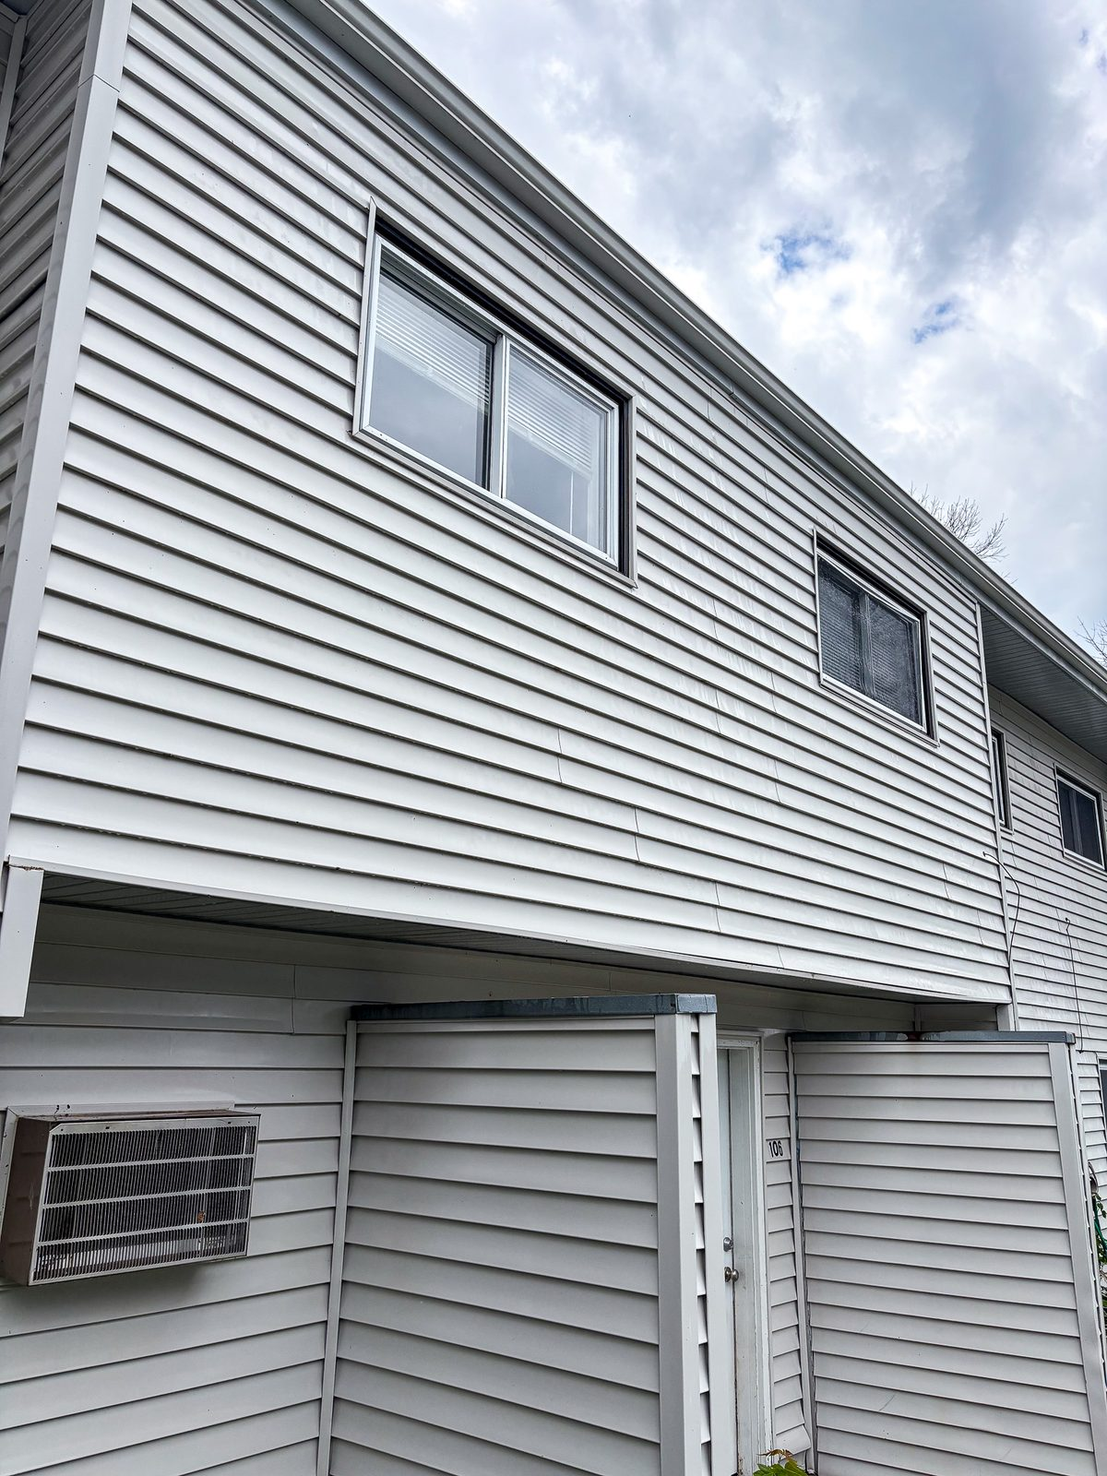
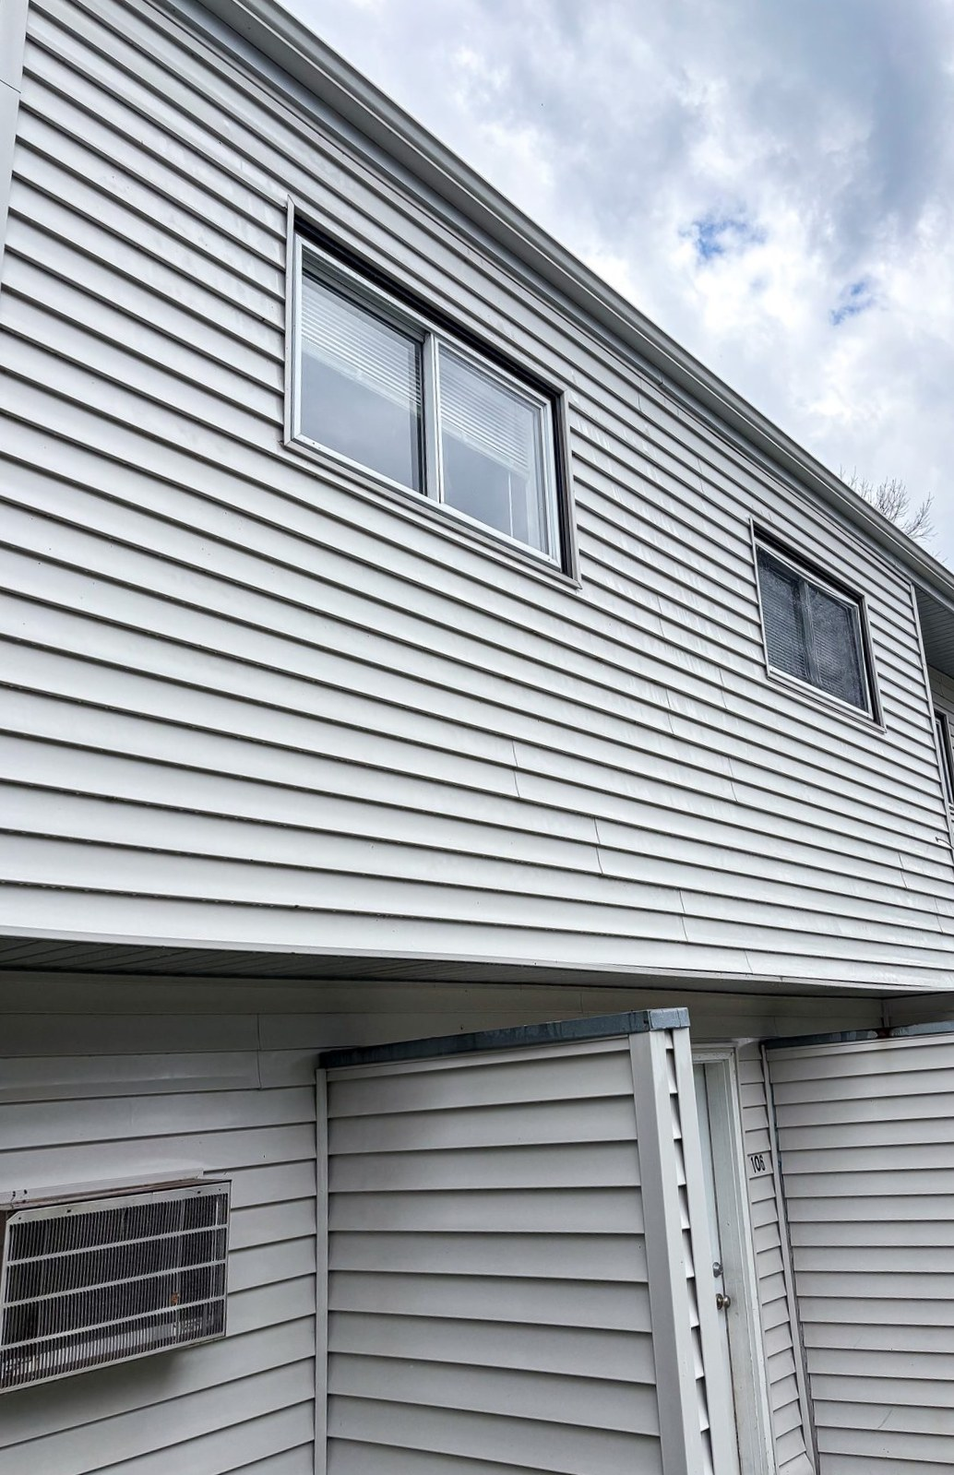
Add window before/after photos, align siding pair, fix reviews spacing
- Wire your new window before/after photos into the ba1 slider slot
  (dirty/speckled glass = before, clean = after).
- Auto-align the siding before/after pair using feature-matching +
  homography so the two shots line up almost pixel-perfect (windows,
  gutter lines, siding courses all match), making the drag transition
  much smoother. The window pair didn't have enough stable features
  for reliable auto-alignment (glass reflections vs. siding texture),
  so that one uses a simple matched center-crop instead.
- Fix reviews.html: content was starting right under the fixed nav
  header since the hero band was removed; add top padding so the
  widget clears the header properly.

diff --git a/gallery.html b/gallery.html
@@ -106,8 +106,8 @@
   <section><div class="container">
     <div class="section-head center"><span class="eyebrow">Drag to reveal</span><h2>Before &amp; after</h2></div>
     <div class="grid cols-3"><div class="reveal" data-delay="0"><div class="ba" role="group" aria-label="Before and after comparison slider">
-  <img class="ba-img ba-before" src="assets/img/ba1-before.svg" alt="Before professional cleaning — visible dirt, algae, and water spots" loading="lazy" width="800" height="500">
-  <img class="ba-img ba-after" src="assets/img/ba1-after.svg" alt="After Barta professional cleaning — bright, spotless, like-new surface" loading="lazy" width="800" height="500">
+  <img class="ba-img ba-before" src="assets/img/ba-window-before.jpg" alt="Before professional cleaning — visible dirt, algae, and water spots" loading="lazy" width="800" height="500">
+  <img class="ba-img ba-after" src="assets/img/ba-window-after.jpg" alt="After Barta professional cleaning — bright, spotless, like-new surface" loading="lazy" width="800" height="500">
   <span class="ba-label before">Before</span>
   <span class="ba-label after">After</span>
   <span class="ba-handle"></span>
@@ -138,8 +138,8 @@
   <span class="ba-knob"><svg viewBox="0 0 24 24" fill="none" stroke="currentColor" stroke-width="1.9" stroke-linecap="round" stroke-linejoin="round" aria-hidden="true"><path d="M12 3v18M8 7 4 11l4 4M16 7l4 4-4 4"/></svg></span>
   <input class="ba-range" type="range" min="0" max="100" value="50" aria-label="Reveal more of the before or after image">
 </div></div><div class="reveal" data-delay="1"><div class="ba" role="group" aria-label="Before and after comparison slider">
-  <img class="ba-img ba-before" src="assets/img/ba1-before.svg" alt="Before professional cleaning — visible dirt, algae, and water spots" loading="lazy" width="800" height="500">
-  <img class="ba-img ba-after" src="assets/img/ba1-after.svg" alt="After Barta professional cleaning — bright, spotless, like-new surface" loading="lazy" width="800" height="500">
+  <img class="ba-img ba-before" src="assets/img/ba-window-before.jpg" alt="Before professional cleaning — visible dirt, algae, and water spots" loading="lazy" width="800" height="500">
+  <img class="ba-img ba-after" src="assets/img/ba-window-after.jpg" alt="After Barta professional cleaning — bright, spotless, like-new surface" loading="lazy" width="800" height="500">
   <span class="ba-label before">Before</span>
   <span class="ba-label after">After</span>
   <span class="ba-handle"></span>

diff --git a/landing/free-window-cleaning-quote.html b/landing/free-window-cleaning-quote.html
@@ -155,8 +155,8 @@
       <div class="mt-3" style="display:grid;gap:22px"><div class="feature reveal" data-delay="0"><span class="ic"><svg viewBox="0 0 24 24" fill="none" stroke="currentColor" stroke-width="1.9" stroke-linecap="round" stroke-linejoin="round" aria-hidden="true"><path d="M20 6 9 17l-5-5"/></svg></span><div><h4>Streak-free guarantee</h4><p>We don't leave until every pane is spotless — or we come back free.</p></div></div><div class="feature reveal" data-delay="1"><span class="ic"><svg viewBox="0 0 24 24" fill="none" stroke="currentColor" stroke-width="1.9" stroke-linecap="round" stroke-linejoin="round" aria-hidden="true"><path d="M20 6 9 17l-5-5"/></svg></span><div><h4>Inside &amp; out</h4><p>Glass, frames, screens, sills, and tracks are detailed on every visit.</p></div></div><div class="feature reveal" data-delay="0"><span class="ic"><svg viewBox="0 0 24 24" fill="none" stroke="currentColor" stroke-width="1.9" stroke-linecap="round" stroke-linejoin="round" aria-hidden="true"><path d="M20 6 9 17l-5-5"/></svg></span><div><h4>Pure-water technology</h4><p>Deionized water rinses glass cleaner and keeps it clearer, longer.</p></div></div><div class="feature reveal" data-delay="1"><span class="ic"><svg viewBox="0 0 24 24" fill="none" stroke="currentColor" stroke-width="1.9" stroke-linecap="round" stroke-linejoin="round" aria-hidden="true"><path d="M20 6 9 17l-5-5"/></svg></span><div><h4>Hard-water removal</h4><p>We treat mineral spots and stains traditional cleaning leaves behind.</p></div></div></div>
     </div>
     <div class="reveal"><div class="ba" role="group" aria-label="Before and after comparison slider">
-  <img class="ba-img ba-before" src="../assets/img/ba1-before.svg" alt="Before professional cleaning — visible dirt, algae, and water spots" loading="lazy" width="800" height="500">
-  <img class="ba-img ba-after" src="../assets/img/ba1-after.svg" alt="After Barta professional cleaning — bright, spotless, like-new surface" loading="lazy" width="800" height="500">
+  <img class="ba-img ba-before" src="../assets/img/ba-window-before.jpg" alt="Before professional cleaning — visible dirt, algae, and water spots" loading="lazy" width="800" height="500">
+  <img class="ba-img ba-after" src="../assets/img/ba-window-after.jpg" alt="After Barta professional cleaning — bright, spotless, like-new surface" loading="lazy" width="800" height="500">
   <span class="ba-label before">Before</span>
   <span class="ba-label after">After</span>
   <span class="ba-handle"></span>

diff --git a/landing/free-pressure-washing-quote.html b/landing/free-pressure-washing-quote.html
@@ -155,8 +155,8 @@
       <div class="mt-3" style="display:grid;gap:22px"><div class="feature reveal" data-delay="0"><span class="ic"><svg viewBox="0 0 24 24" fill="none" stroke="currentColor" stroke-width="1.9" stroke-linecap="round" stroke-linejoin="round" aria-hidden="true"><path d="M20 6 9 17l-5-5"/></svg></span><div><h4>Like-new surfaces</h4><p>Driveways, patios, and walkways come back to their original color.</p></div></div><div class="feature reveal" data-delay="1"><span class="ic"><svg viewBox="0 0 24 24" fill="none" stroke="currentColor" stroke-width="1.9" stroke-linecap="round" stroke-linejoin="round" aria-hidden="true"><path d="M20 6 9 17l-5-5"/></svg></span><div><h4>Surface-safe pressure</h4><p>We dial pressure and nozzles to each material — no etching or gouging.</p></div></div><div class="feature reveal" data-delay="0"><span class="ic"><svg viewBox="0 0 24 24" fill="none" stroke="currentColor" stroke-width="1.9" stroke-linecap="round" stroke-linejoin="round" aria-hidden="true"><path d="M20 6 9 17l-5-5"/></svg></span><div><h4>Oil &amp; rust treatment</h4><p>Targeted pre-treatment lifts stains pressure alone can't.</p></div></div><div class="feature reveal" data-delay="1"><span class="ic"><svg viewBox="0 0 24 24" fill="none" stroke="currentColor" stroke-width="1.9" stroke-linecap="round" stroke-linejoin="round" aria-hidden="true"><path d="M20 6 9 17l-5-5"/></svg></span><div><h4>Curb appeal that lasts</h4><p>Clean hardscapes instantly lift the look and value of your home.</p></div></div></div>
     </div>
     <div class="reveal"><div class="ba" role="group" aria-label="Before and after comparison slider">
-  <img class="ba-img ba-before" src="../assets/img/ba1-before.svg" alt="Before professional cleaning — visible dirt, algae, and water spots" loading="lazy" width="800" height="500">
-  <img class="ba-img ba-after" src="../assets/img/ba1-after.svg" alt="After Barta professional cleaning — bright, spotless, like-new surface" loading="lazy" width="800" height="500">
+  <img class="ba-img ba-before" src="../assets/img/ba-window-before.jpg" alt="Before professional cleaning — visible dirt, algae, and water spots" loading="lazy" width="800" height="500">
+  <img class="ba-img ba-after" src="../assets/img/ba-window-after.jpg" alt="After Barta professional cleaning — bright, spotless, like-new surface" loading="lazy" width="800" height="500">
   <span class="ba-label before">Before</span>
   <span class="ba-label after">After</span>
   <span class="ba-handle"></span>

diff --git a/landing/house-washing-estimate.html b/landing/house-washing-estimate.html
@@ -155,8 +155,8 @@
       <div class="mt-3" style="display:grid;gap:22px"><div class="feature reveal" data-delay="0"><span class="ic"><svg viewBox="0 0 24 24" fill="none" stroke="currentColor" stroke-width="1.9" stroke-linecap="round" stroke-linejoin="round" aria-hidden="true"><path d="M20 6 9 17l-5-5"/></svg></span><div><h4>Whole-home refresh</h4><p>Siding, soffits, fascia, trim, and eaves cleaned top to bottom.</p></div></div><div class="feature reveal" data-delay="1"><span class="ic"><svg viewBox="0 0 24 24" fill="none" stroke="currentColor" stroke-width="1.9" stroke-linecap="round" stroke-linejoin="round" aria-hidden="true"><path d="M20 6 9 17l-5-5"/></svg></span><div><h4>Safe for every surface</h4><p>Low-pressure soft washing protects siding, paint, and landscaping.</p></div></div><div class="feature reveal" data-delay="0"><span class="ic"><svg viewBox="0 0 24 24" fill="none" stroke="currentColor" stroke-width="1.9" stroke-linecap="round" stroke-linejoin="round" aria-hidden="true"><path d="M20 6 9 17l-5-5"/></svg></span><div><h4>Kills the green, not just rinses</h4><p>Our solution treats algae and mildew at the root.</p></div></div><div class="feature reveal" data-delay="1"><span class="ic"><svg viewBox="0 0 24 24" fill="none" stroke="currentColor" stroke-width="1.9" stroke-linecap="round" stroke-linejoin="round" aria-hidden="true"><path d="M20 6 9 17l-5-5"/></svg></span><div><h4>Boost curb appeal &amp; value</h4><p>The single highest-impact exterior upgrade you can make.</p></div></div></div>
     </div>
     <div class="reveal"><div class="ba" role="group" aria-label="Before and after comparison slider">
-  <img class="ba-img ba-before" src="../assets/img/ba1-before.svg" alt="Before professional cleaning — visible dirt, algae, and water spots" loading="lazy" width="800" height="500">
-  <img class="ba-img ba-after" src="../assets/img/ba1-after.svg" alt="After Barta professional cleaning — bright, spotless, like-new surface" loading="lazy" width="800" height="500">
+  <img class="ba-img ba-before" src="../assets/img/ba-window-before.jpg" alt="Before professional cleaning — visible dirt, algae, and water spots" loading="lazy" width="800" height="500">
+  <img class="ba-img ba-after" src="../assets/img/ba-window-after.jpg" alt="After Barta professional cleaning — bright, spotless, like-new surface" loading="lazy" width="800" height="500">
   <span class="ba-label before">Before</span>
   <span class="ba-label after">After</span>
   <span class="ba-handle"></span>

diff --git a/landing/free-gutter-cleaning-estimate.html b/landing/free-gutter-cleaning-estimate.html
@@ -155,8 +155,8 @@
       <div class="mt-3" style="display:grid;gap:22px"><div class="feature reveal" data-delay="0"><span class="ic"><svg viewBox="0 0 24 24" fill="none" stroke="currentColor" stroke-width="1.9" stroke-linecap="round" stroke-linejoin="round" aria-hidden="true"><path d="M20 6 9 17l-5-5"/></svg></span><div><h4>Protect your foundation</h4><p>Free-flowing gutters route water away from your home, not into it.</p></div></div><div class="feature reveal" data-delay="1"><span class="ic"><svg viewBox="0 0 24 24" fill="none" stroke="currentColor" stroke-width="1.9" stroke-linecap="round" stroke-linejoin="round" aria-hidden="true"><path d="M20 6 9 17l-5-5"/></svg></span><div><h4>Hand-cleared, not blown around</h4><p>We bag debris and haul it away — no mess left behind.</p></div></div><div class="feature reveal" data-delay="0"><span class="ic"><svg viewBox="0 0 24 24" fill="none" stroke="currentColor" stroke-width="1.9" stroke-linecap="round" stroke-linejoin="round" aria-hidden="true"><path d="M20 6 9 17l-5-5"/></svg></span><div><h4>Downspouts flushed</h4><p>We confirm water flows freely from gutter to ground.</p></div></div><div class="feature reveal" data-delay="1"><span class="ic"><svg viewBox="0 0 24 24" fill="none" stroke="currentColor" stroke-width="1.9" stroke-linecap="round" stroke-linejoin="round" aria-hidden="true"><path d="M20 6 9 17l-5-5"/></svg></span><div><h4>Free roof &amp; gutter check</h4><p>We flag loose hangers, leaks, or damage before they grow.</p></div></div></div>
     </div>
     <div class="reveal"><div class="ba" role="group" aria-label="Before and after comparison slider">
-  <img class="ba-img ba-before" src="../assets/img/ba1-before.svg" alt="Before professional cleaning — visible dirt, algae, and water spots" loading="lazy" width="800" height="500">
-  <img class="ba-img ba-after" src="../assets/img/ba1-after.svg" alt="After Barta professional cleaning — bright, spotless, like-new surface" loading="lazy" width="800" height="500">
+  <img class="ba-img ba-before" src="../assets/img/ba-window-before.jpg" alt="Before professional cleaning — visible dirt, algae, and water spots" loading="lazy" width="800" height="500">
+  <img class="ba-img ba-after" src="../assets/img/ba-window-after.jpg" alt="After Barta professional cleaning — bright, spotless, like-new surface" loading="lazy" width="800" height="500">
   <span class="ba-label before">Before</span>
   <span class="ba-label after">After</span>
   <span class="ba-handle"></span>

diff --git a/landing/holiday-lighting-estimate.html b/landing/holiday-lighting-estimate.html
@@ -155,8 +155,8 @@
       <div class="mt-3" style="display:grid;gap:22px"><div class="feature reveal" data-delay="0"><span class="ic"><svg viewBox="0 0 24 24" fill="none" stroke="currentColor" stroke-width="1.9" stroke-linecap="round" stroke-linejoin="round" aria-hidden="true"><path d="M20 6 9 17l-5-5"/></svg></span><div><h4>Custom design</h4><p>A lighting plan tailored to your roofline, trees, and style.</p></div></div><div class="feature reveal" data-delay="1"><span class="ic"><svg viewBox="0 0 24 24" fill="none" stroke="currentColor" stroke-width="1.9" stroke-linecap="round" stroke-linejoin="round" aria-hidden="true"><path d="M20 6 9 17l-5-5"/></svg></span><div><h4>Premium commercial-grade lights</h4><p>Brighter, more durable bulbs that last season after season.</p></div></div><div class="feature reveal" data-delay="0"><span class="ic"><svg viewBox="0 0 24 24" fill="none" stroke="currentColor" stroke-width="1.9" stroke-linecap="round" stroke-linejoin="round" aria-hidden="true"><path d="M20 6 9 17l-5-5"/></svg></span><div><h4>Full-service</h4><p>We design, install, maintain, take down, and store.</p></div></div><div class="feature reveal" data-delay="1"><span class="ic"><svg viewBox="0 0 24 24" fill="none" stroke="currentColor" stroke-width="1.9" stroke-linecap="round" stroke-linejoin="round" aria-hidden="true"><path d="M20 6 9 17l-5-5"/></svg></span><div><h4>Safe &amp; insured</h4><p>No icy ladders, no risk — our insured crew handles it all.</p></div></div></div>
     </div>
     <div class="reveal"><div class="ba" role="group" aria-label="Before and after comparison slider">
-  <img class="ba-img ba-before" src="../assets/img/ba1-before.svg" alt="Before professional cleaning — visible dirt, algae, and water spots" loading="lazy" width="800" height="500">
-  <img class="ba-img ba-after" src="../assets/img/ba1-after.svg" alt="After Barta professional cleaning — bright, spotless, like-new surface" loading="lazy" width="800" height="500">
+  <img class="ba-img ba-before" src="../assets/img/ba-window-before.jpg" alt="Before professional cleaning — visible dirt, algae, and water spots" loading="lazy" width="800" height="500">
+  <img class="ba-img ba-after" src="../assets/img/ba-window-after.jpg" alt="After Barta professional cleaning — bright, spotless, like-new surface" loading="lazy" width="800" height="500">
   <span class="ba-label before">Before</span>
   <span class="ba-label after">After</span>
   <span class="ba-handle"></span>

diff --git a/landing/commercial-quote.html b/landing/commercial-quote.html
@@ -155,8 +155,8 @@
       <div class="mt-3" style="display:grid;gap:22px"><div class="feature reveal" data-delay="0"><span class="ic"><svg viewBox="0 0 24 24" fill="none" stroke="currentColor" stroke-width="1.9" stroke-linecap="round" stroke-linejoin="round" aria-hidden="true"><path d="M20 6 9 17l-5-5"/></svg></span><div><h4>One reliable vendor</h4><p>Every building, every service, one point of contact.</p></div></div><div class="feature reveal" data-delay="1"><span class="ic"><svg viewBox="0 0 24 24" fill="none" stroke="currentColor" stroke-width="1.9" stroke-linecap="round" stroke-linejoin="round" aria-hidden="true"><path d="M20 6 9 17l-5-5"/></svg></span><div><h4>Fully insured</h4><p>Comprehensive coverage on every commercial job.</p></div></div><div class="feature reveal" data-delay="0"><span class="ic"><svg viewBox="0 0 24 24" fill="none" stroke="currentColor" stroke-width="1.9" stroke-linecap="round" stroke-linejoin="round" aria-hidden="true"><path d="M20 6 9 17l-5-5"/></svg></span><div><h4>Flexible scheduling</h4><p>We work around your hours and your tenants.</p></div></div><div class="feature reveal" data-delay="1"><span class="ic"><svg viewBox="0 0 24 24" fill="none" stroke="currentColor" stroke-width="1.9" stroke-linecap="round" stroke-linejoin="round" aria-hidden="true"><path d="M20 6 9 17l-5-5"/></svg></span><div><h4>Spotless impressions</h4><p>Clean glass and entries that win customers.</p></div></div></div>
     </div>
     <div class="reveal"><div class="ba" role="group" aria-label="Before and after comparison slider">
-  <img class="ba-img ba-before" src="../assets/img/ba1-before.svg" alt="Before professional cleaning — visible dirt, algae, and water spots" loading="lazy" width="800" height="500">
-  <img class="ba-img ba-after" src="../assets/img/ba1-after.svg" alt="After Barta professional cleaning — bright, spotless, like-new surface" loading="lazy" width="800" height="500">
+  <img class="ba-img ba-before" src="../assets/img/ba-window-before.jpg" alt="Before professional cleaning — visible dirt, algae, and water spots" loading="lazy" width="800" height="500">
+  <img class="ba-img ba-after" src="../assets/img/ba-window-after.jpg" alt="After Barta professional cleaning — bright, spotless, like-new surface" loading="lazy" width="800" height="500">
   <span class="ba-label before">Before</span>
   <span class="ba-label after">After</span>
   <span class="ba-handle"></span>

diff --git a/index.html b/index.html
@@ -230,8 +230,8 @@
         <p>Real results from real Barta jobs. Slide each image to see the transformation.</p>
       </div>
       <div class="grid cols-3"><div class="reveal" data-delay="0"><div class="ba" role="group" aria-label="Before and after comparison slider">
-  <img class="ba-img ba-before" src="assets/img/ba1-before.svg" alt="Before professional cleaning — visible dirt, algae, and water spots" loading="lazy" width="800" height="500">
-  <img class="ba-img ba-after" src="assets/img/ba1-after.svg" alt="After Barta professional cleaning — bright, spotless, like-new surface" loading="lazy" width="800" height="500">
+  <img class="ba-img ba-before" src="assets/img/ba-window-before.jpg" alt="Before professional cleaning — visible dirt, algae, and water spots" loading="lazy" width="800" height="500">
+  <img class="ba-img ba-after" src="assets/img/ba-window-after.jpg" alt="After Barta professional cleaning — bright, spotless, like-new surface" loading="lazy" width="800" height="500">
   <span class="ba-label before">Before</span>
   <span class="ba-label after">After</span>
   <span class="ba-handle"></span>

diff --git a/services/christmas-light-installation.html b/services/christmas-light-installation.html
@@ -154,8 +154,8 @@
           <p><strong>Books up fast — reserve your install in early fall for best availability.</strong></p>
         </div>
         <div class="reveal"><div class="ba" role="group" aria-label="Before and after comparison slider">
-  <img class="ba-img ba-before" src="../assets/img/ba1-before.svg" alt="Before professional cleaning — visible dirt, algae, and water spots" loading="lazy" width="800" height="500">
-  <img class="ba-img ba-after" src="../assets/img/ba1-after.svg" alt="After Barta professional cleaning — bright, spotless, like-new surface" loading="lazy" width="800" height="500">
+  <img class="ba-img ba-before" src="../assets/img/ba-window-before.jpg" alt="Before professional cleaning — visible dirt, algae, and water spots" loading="lazy" width="800" height="500">
+  <img class="ba-img ba-after" src="../assets/img/ba-window-after.jpg" alt="After Barta professional cleaning — bright, spotless, like-new surface" loading="lazy" width="800" height="500">
   <span class="ba-label before">Before</span>
   <span class="ba-label after">After</span>
   <span class="ba-handle"></span>

diff --git a/services/hard-water-stain-removal.html b/services/hard-water-stain-removal.html
@@ -154,8 +154,8 @@
           <p><strong>Severity varies — we provide an honest assessment before any work begins.</strong></p>
         </div>
         <div class="reveal"><div class="ba" role="group" aria-label="Before and after comparison slider">
-  <img class="ba-img ba-before" src="../assets/img/ba1-before.svg" alt="Before professional cleaning — visible dirt, algae, and water spots" loading="lazy" width="800" height="500">
-  <img class="ba-img ba-after" src="../assets/img/ba1-after.svg" alt="After Barta professional cleaning — bright, spotless, like-new surface" loading="lazy" width="800" height="500">
+  <img class="ba-img ba-before" src="../assets/img/ba-window-before.jpg" alt="Before professional cleaning — visible dirt, algae, and water spots" loading="lazy" width="800" height="500">
+  <img class="ba-img ba-after" src="../assets/img/ba-window-after.jpg" alt="After Barta professional cleaning — bright, spotless, like-new surface" loading="lazy" width="800" height="500">
   <span class="ba-label before">Before</span>
   <span class="ba-label after">After</span>
   <span class="ba-handle"></span>

diff --git a/services/pressure-washing.html b/services/pressure-washing.html
@@ -154,8 +154,8 @@
           <p><strong>Pair with house washing for a complete exterior refresh and bundle savings.</strong></p>
         </div>
         <div class="reveal"><div class="ba" role="group" aria-label="Before and after comparison slider">
-  <img class="ba-img ba-before" src="../assets/img/ba1-before.svg" alt="Before professional cleaning — visible dirt, algae, and water spots" loading="lazy" width="800" height="500">
-  <img class="ba-img ba-after" src="../assets/img/ba1-after.svg" alt="After Barta professional cleaning — bright, spotless, like-new surface" loading="lazy" width="800" height="500">
+  <img class="ba-img ba-before" src="../assets/img/ba-window-before.jpg" alt="Before professional cleaning — visible dirt, algae, and water spots" loading="lazy" width="800" height="500">
+  <img class="ba-img ba-after" src="../assets/img/ba-window-after.jpg" alt="After Barta professional cleaning — bright, spotless, like-new surface" loading="lazy" width="800" height="500">
   <span class="ba-label before">Before</span>
   <span class="ba-label after">After</span>
   <span class="ba-handle"></span>

diff --git a/services/gutter-cleaning.html b/services/gutter-cleaning.html
@@ -154,8 +154,8 @@
           <p><strong>Ask about gutter guards and recurring plans to keep them clear year-round.</strong></p>
         </div>
         <div class="reveal"><div class="ba" role="group" aria-label="Before and after comparison slider">
-  <img class="ba-img ba-before" src="../assets/img/ba1-before.svg" alt="Before professional cleaning — visible dirt, algae, and water spots" loading="lazy" width="800" height="500">
-  <img class="ba-img ba-after" src="../assets/img/ba1-after.svg" alt="After Barta professional cleaning — bright, spotless, like-new surface" loading="lazy" width="800" height="500">
+  <img class="ba-img ba-before" src="../assets/img/ba-window-before.jpg" alt="Before professional cleaning — visible dirt, algae, and water spots" loading="lazy" width="800" height="500">
+  <img class="ba-img ba-after" src="../assets/img/ba-window-after.jpg" alt="After Barta professional cleaning — bright, spotless, like-new surface" loading="lazy" width="800" height="500">
   <span class="ba-label before">Before</span>
   <span class="ba-label after">After</span>
   <span class="ba-handle"></span>
